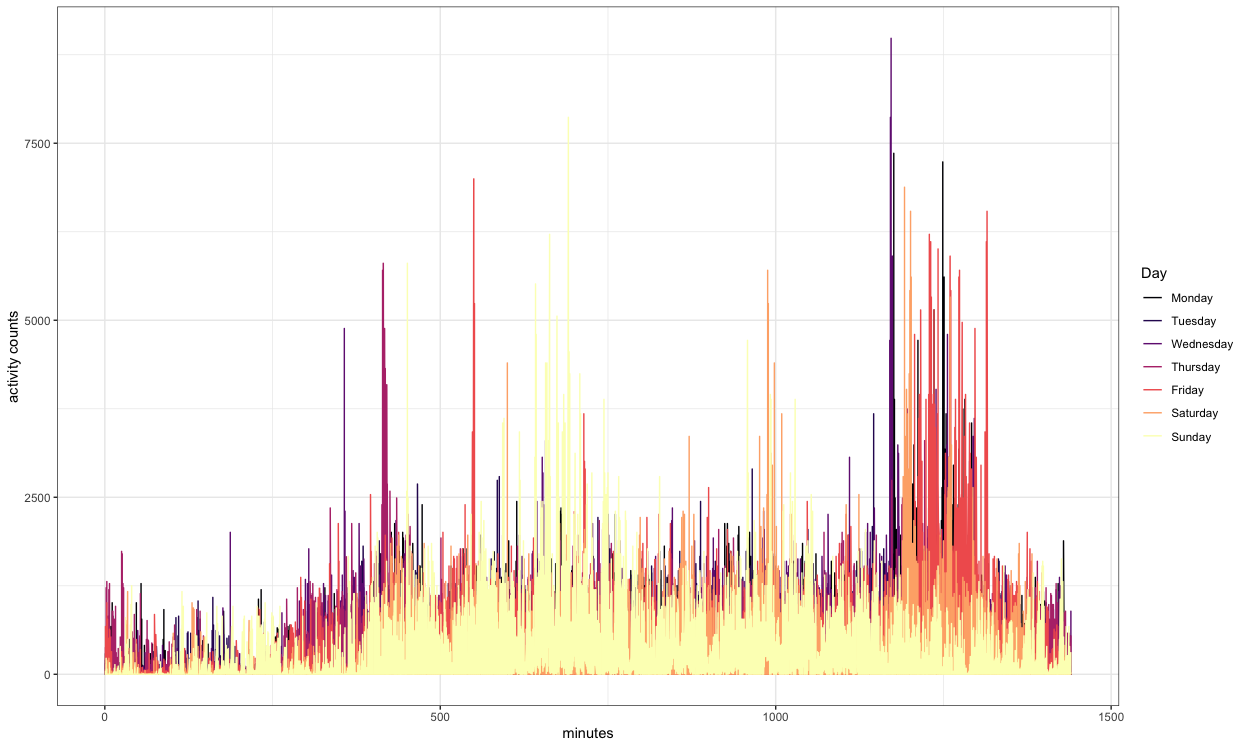
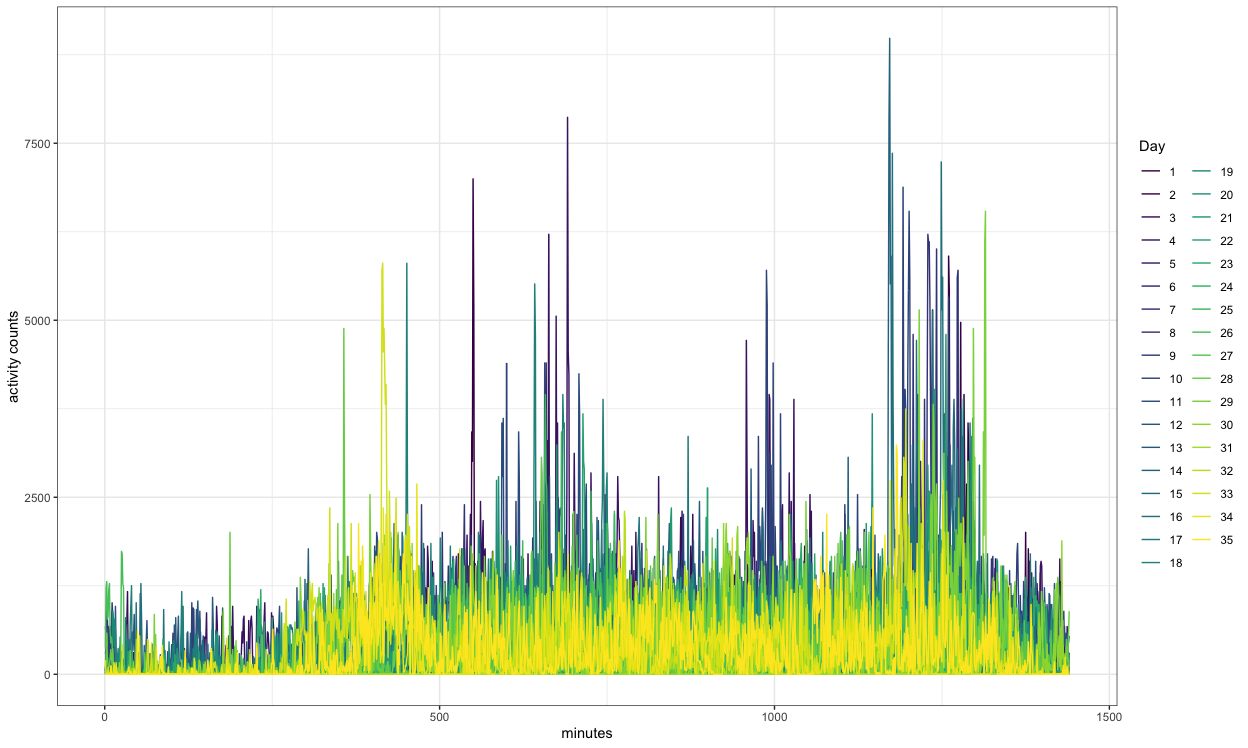
update the last plot in problem 3

diff --git a/p8105_hw3_mz2777.md b/p8105_hw3_mz2777.md
@@ -349,7 +349,8 @@ accel_data = read_csv("data/accel_data.csv") %>%
                             "Saturday" = "Weekend", 
                             "Sunday" = "Weekend"),
          day = forcats::fct_relevel(day, c("Monday", "Tuesday", "Wednesday", "Thursday", "Friday", "Saturday", "Sunday")),
-         week = factor(week)
+         week = factor(week),
+         day_id = factor(day_id)
          ) %>% 
   arrange(week, day) %>% 
   pivot_longer(
@@ -418,23 +419,20 @@ total_accel_data %>%
     Describe in words any patterns or conclusions you can make based on
     this graph
 
-**Conclusion**: On Wednesday and Tuesday, this patient’s activity counts
-are lower relatively which may show that he did not do much activity on
-those two days, while on weekend, the activity counts is relatively
-high. In each day, we can see that this patients usually sleep after
-midnight and the sleeping time is about 5 hours which is very short. On
-Friday, he usually have high activity counts around 20:00 to 21:00. On
-weekends, the activity counts is high during 10:00 to 12:00.
+**Conclusion**: In each day, we can see that this patients usually sleep
+after midnight and the sleeping time is about 5 hours which is very
+short. There are two peaks of activity counts which are around 10:00 to
+12:00 and 20:00 to 21:00.
 
 ``` r
 accel_data %>% 
-  ggplot(aes(x= as.numeric(minutes), y = activity_counts, fill = day)) + 
-  geom_line(aes(color = day)) +
+  ggplot(aes(x= as.numeric(minutes), y = activity_counts, fill = day_id)) + 
+  geom_line(aes(color = day_id)) +
   labs(
     x = "minutes",
     y = "activity counts"
   ) + 
-  scale_color_viridis(option = "magma", name = "Day", discrete=TRUE) + 
+  scale_color_viridis(name = "Day", discrete=TRUE) + 
   theme_bw()
 ```
 
